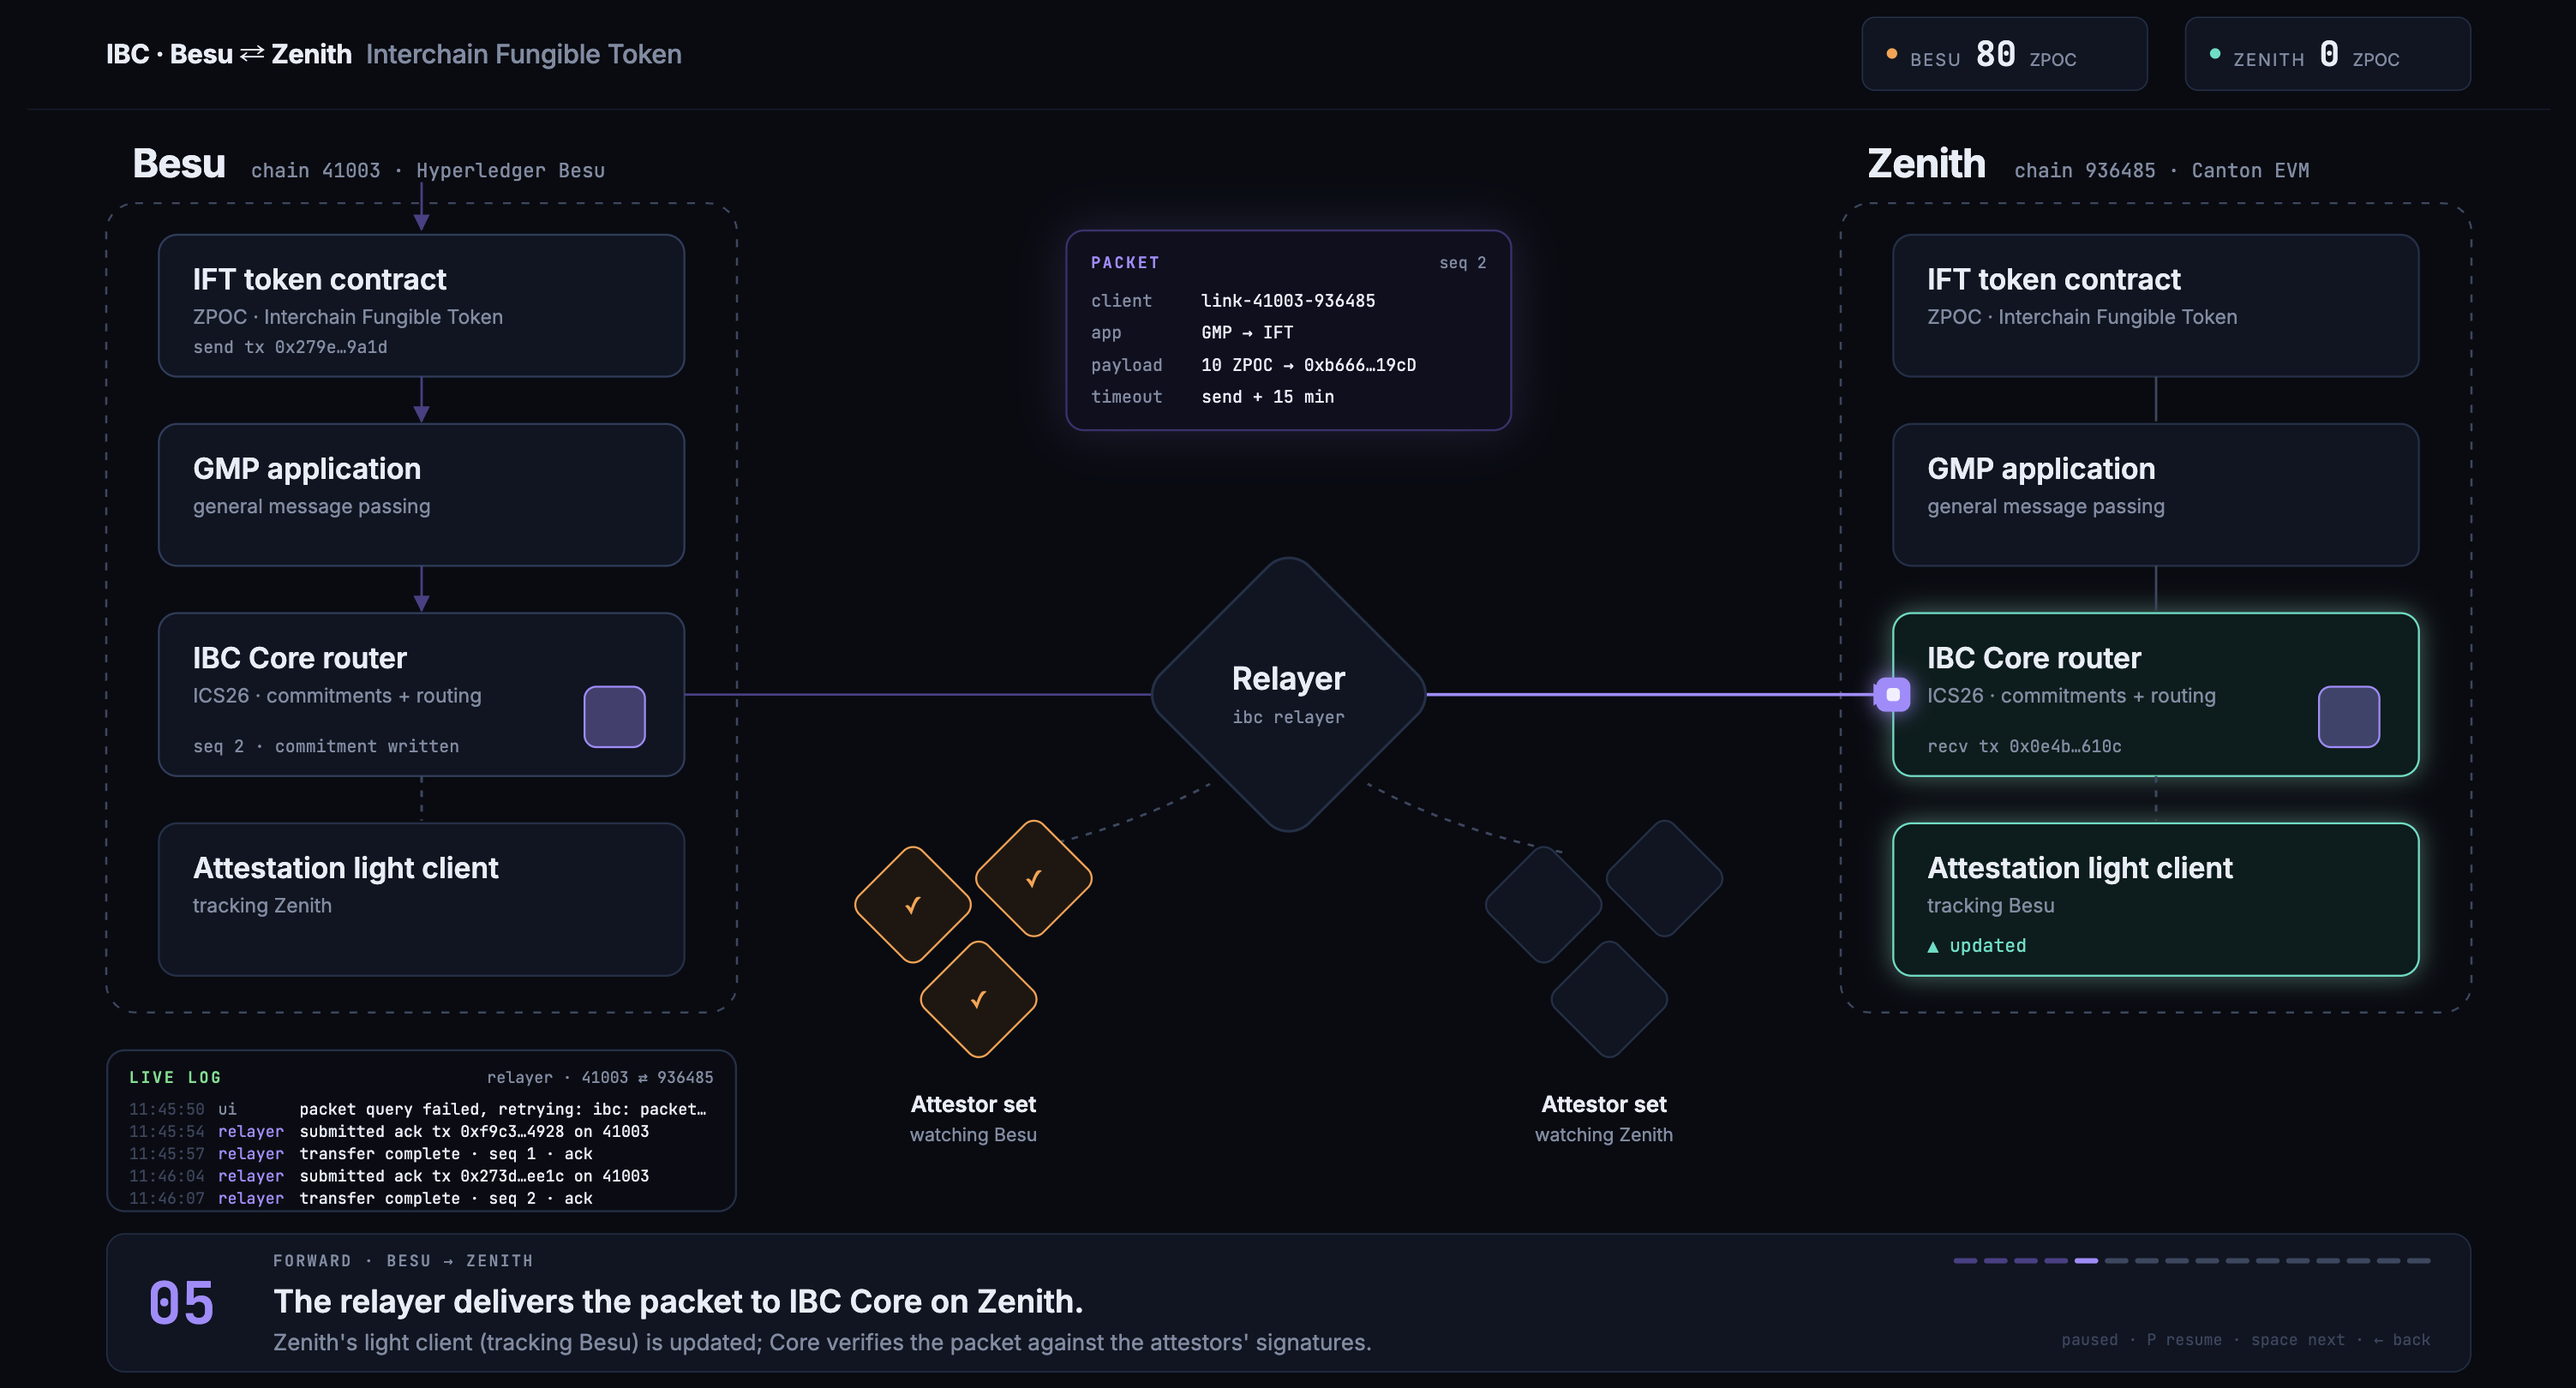
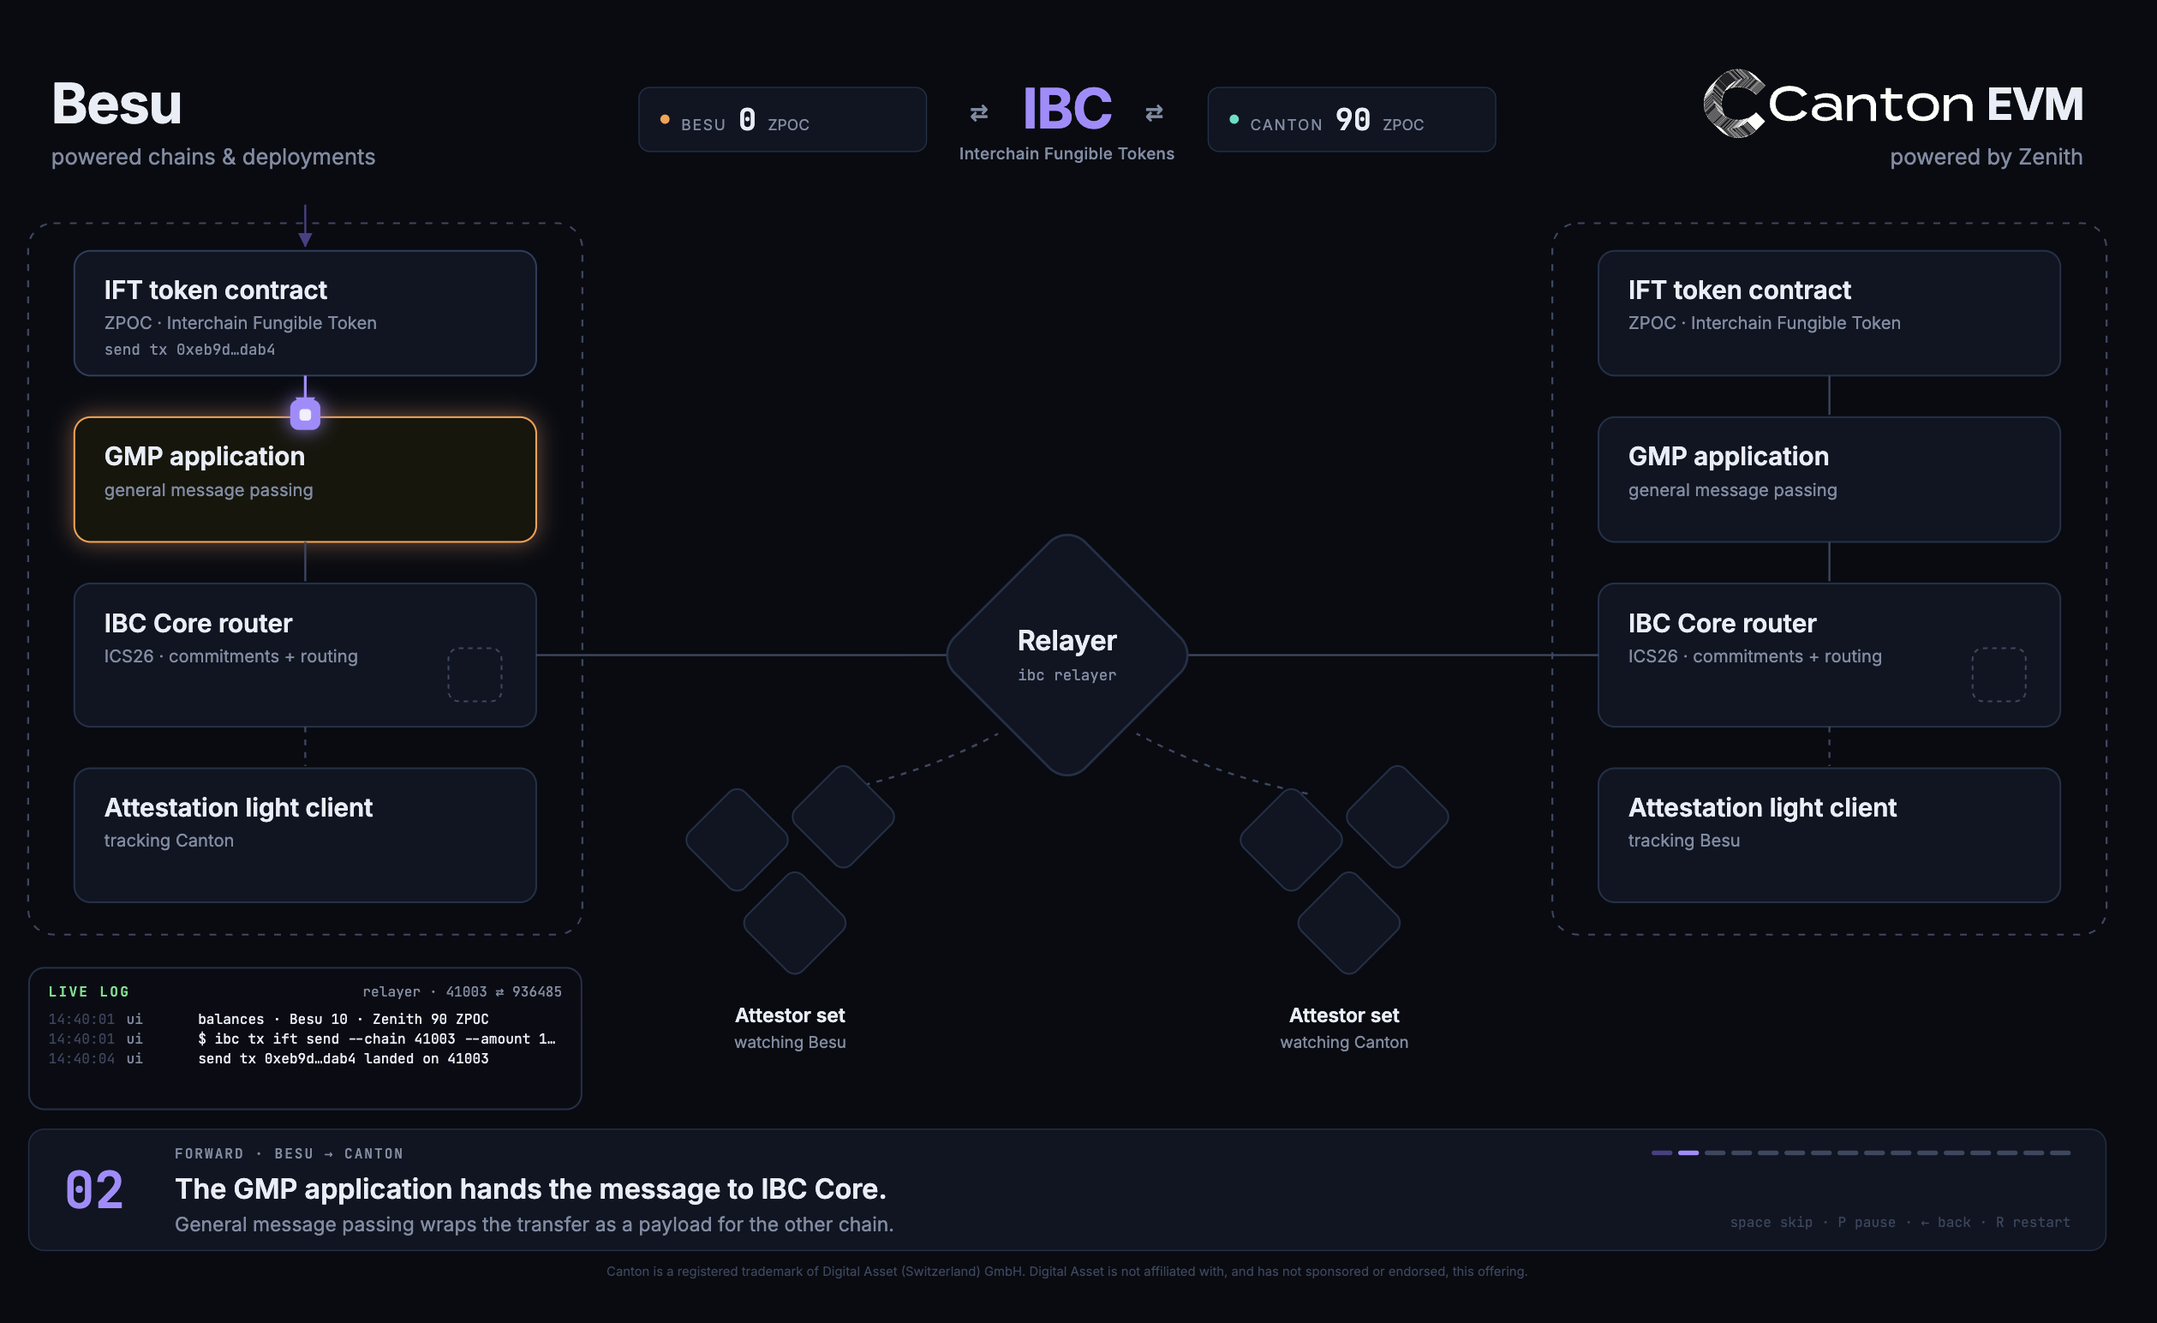
update-ui

diff --git a/README.md b/README.md
@@ -85,9 +85,10 @@ and balances of Besu 90 / Zenith 10 ZPOC. The PoC keeps running afterwards.
 
 ### The demo UI
 
-![The demo UI mid-transfer: Besu on the left, Zenith on the right, the relayer
-between them, the packet arriving at IBC Core on Zenith, and the live log in the
-bottom-left corner](docs/img/demo-ui.png)
+![The demo UI at step 2 of a live transfer: Besu on the left, Canton EVM on the
+right, balances and IBC in the top bar, the relayer and attestor sets in the
+middle, the packet moving from the IFT contract to GMP on Besu, and the live log
+in the bottom-left corner](docs/img/demo-ui.png)
 
 One transfer, step by step, built for recording: the contracts on each chain,
 the attestor sets and the relayer between them, and the packet moving
